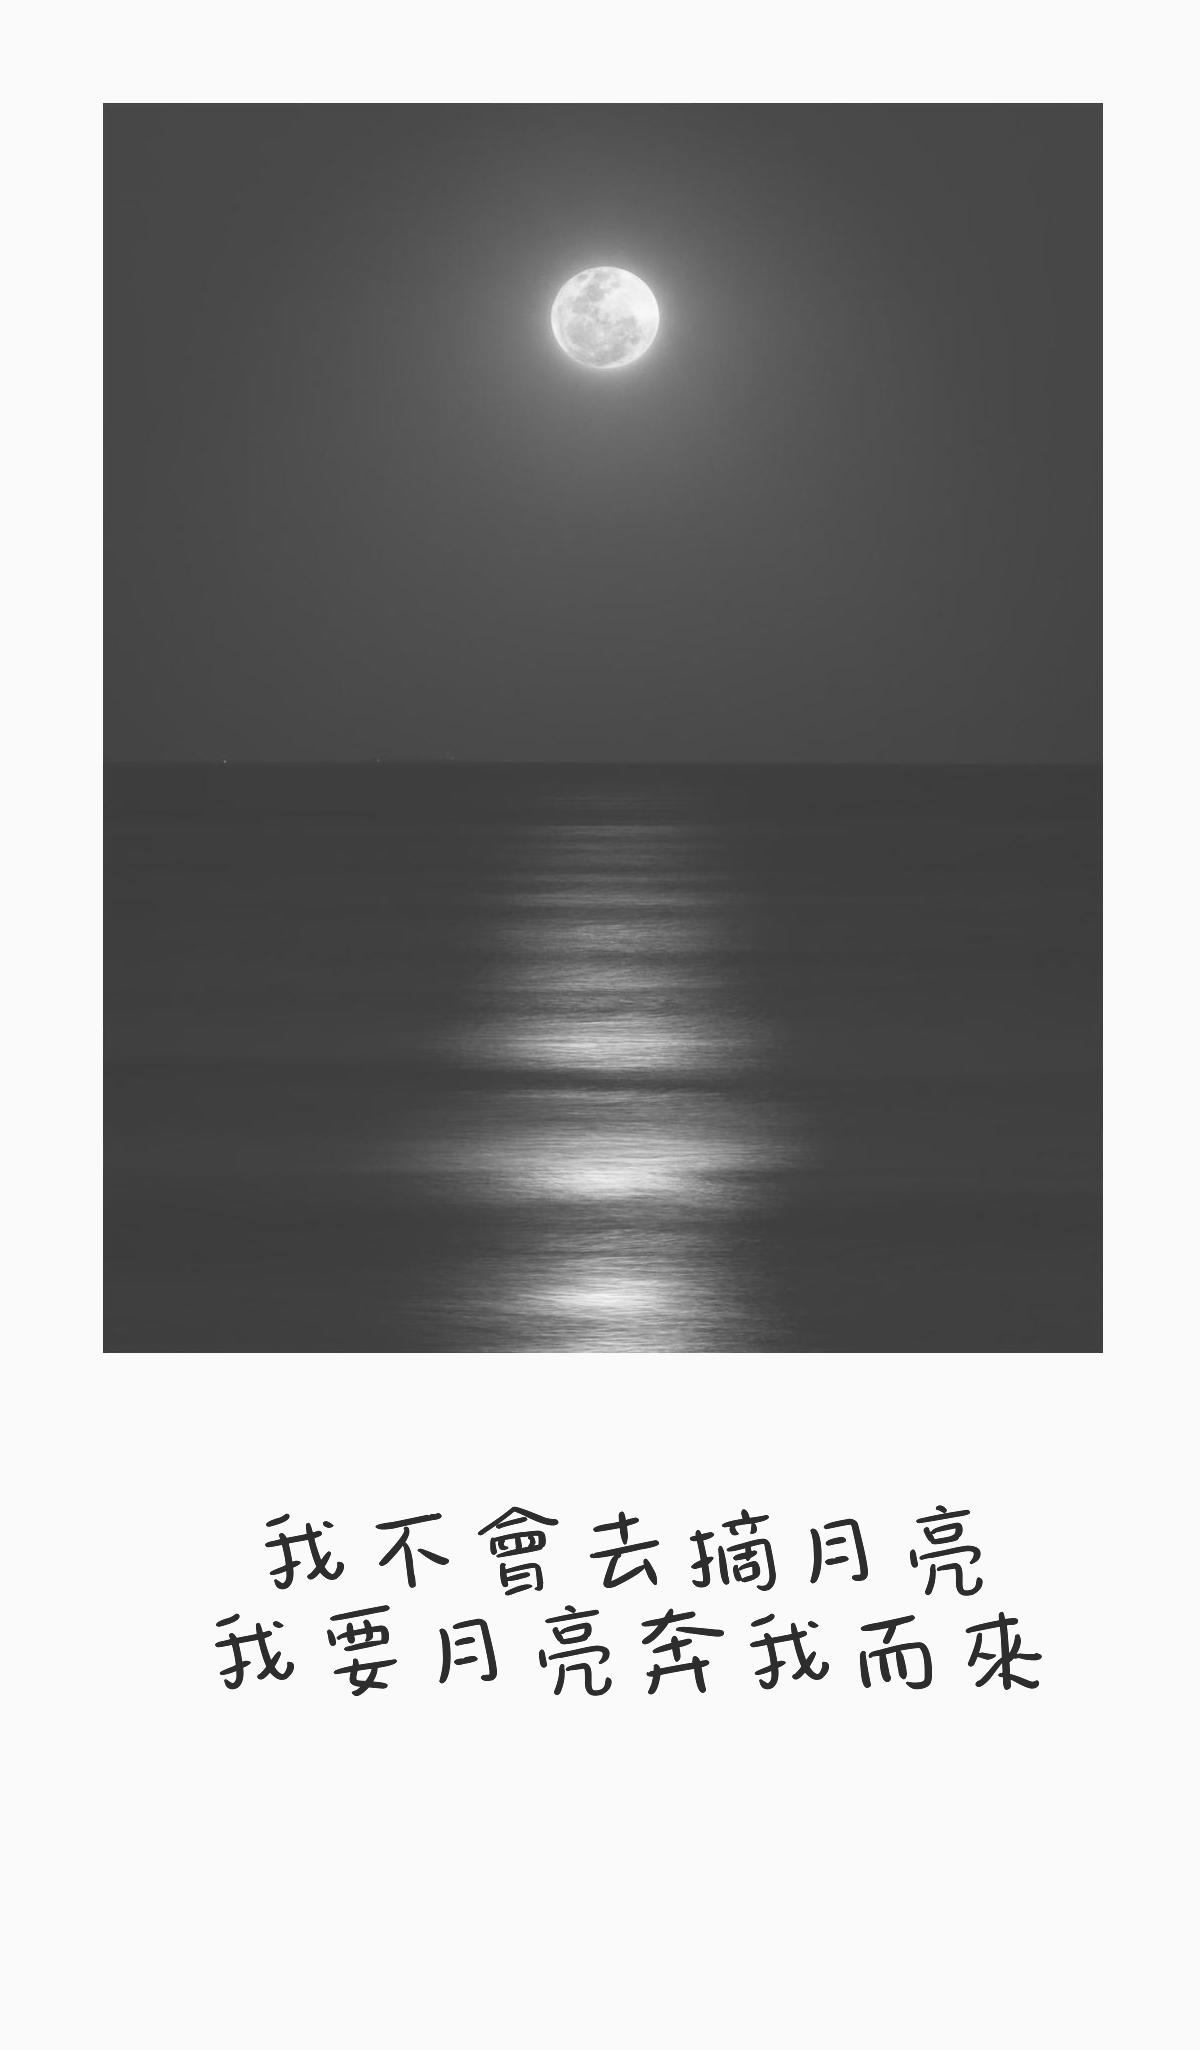
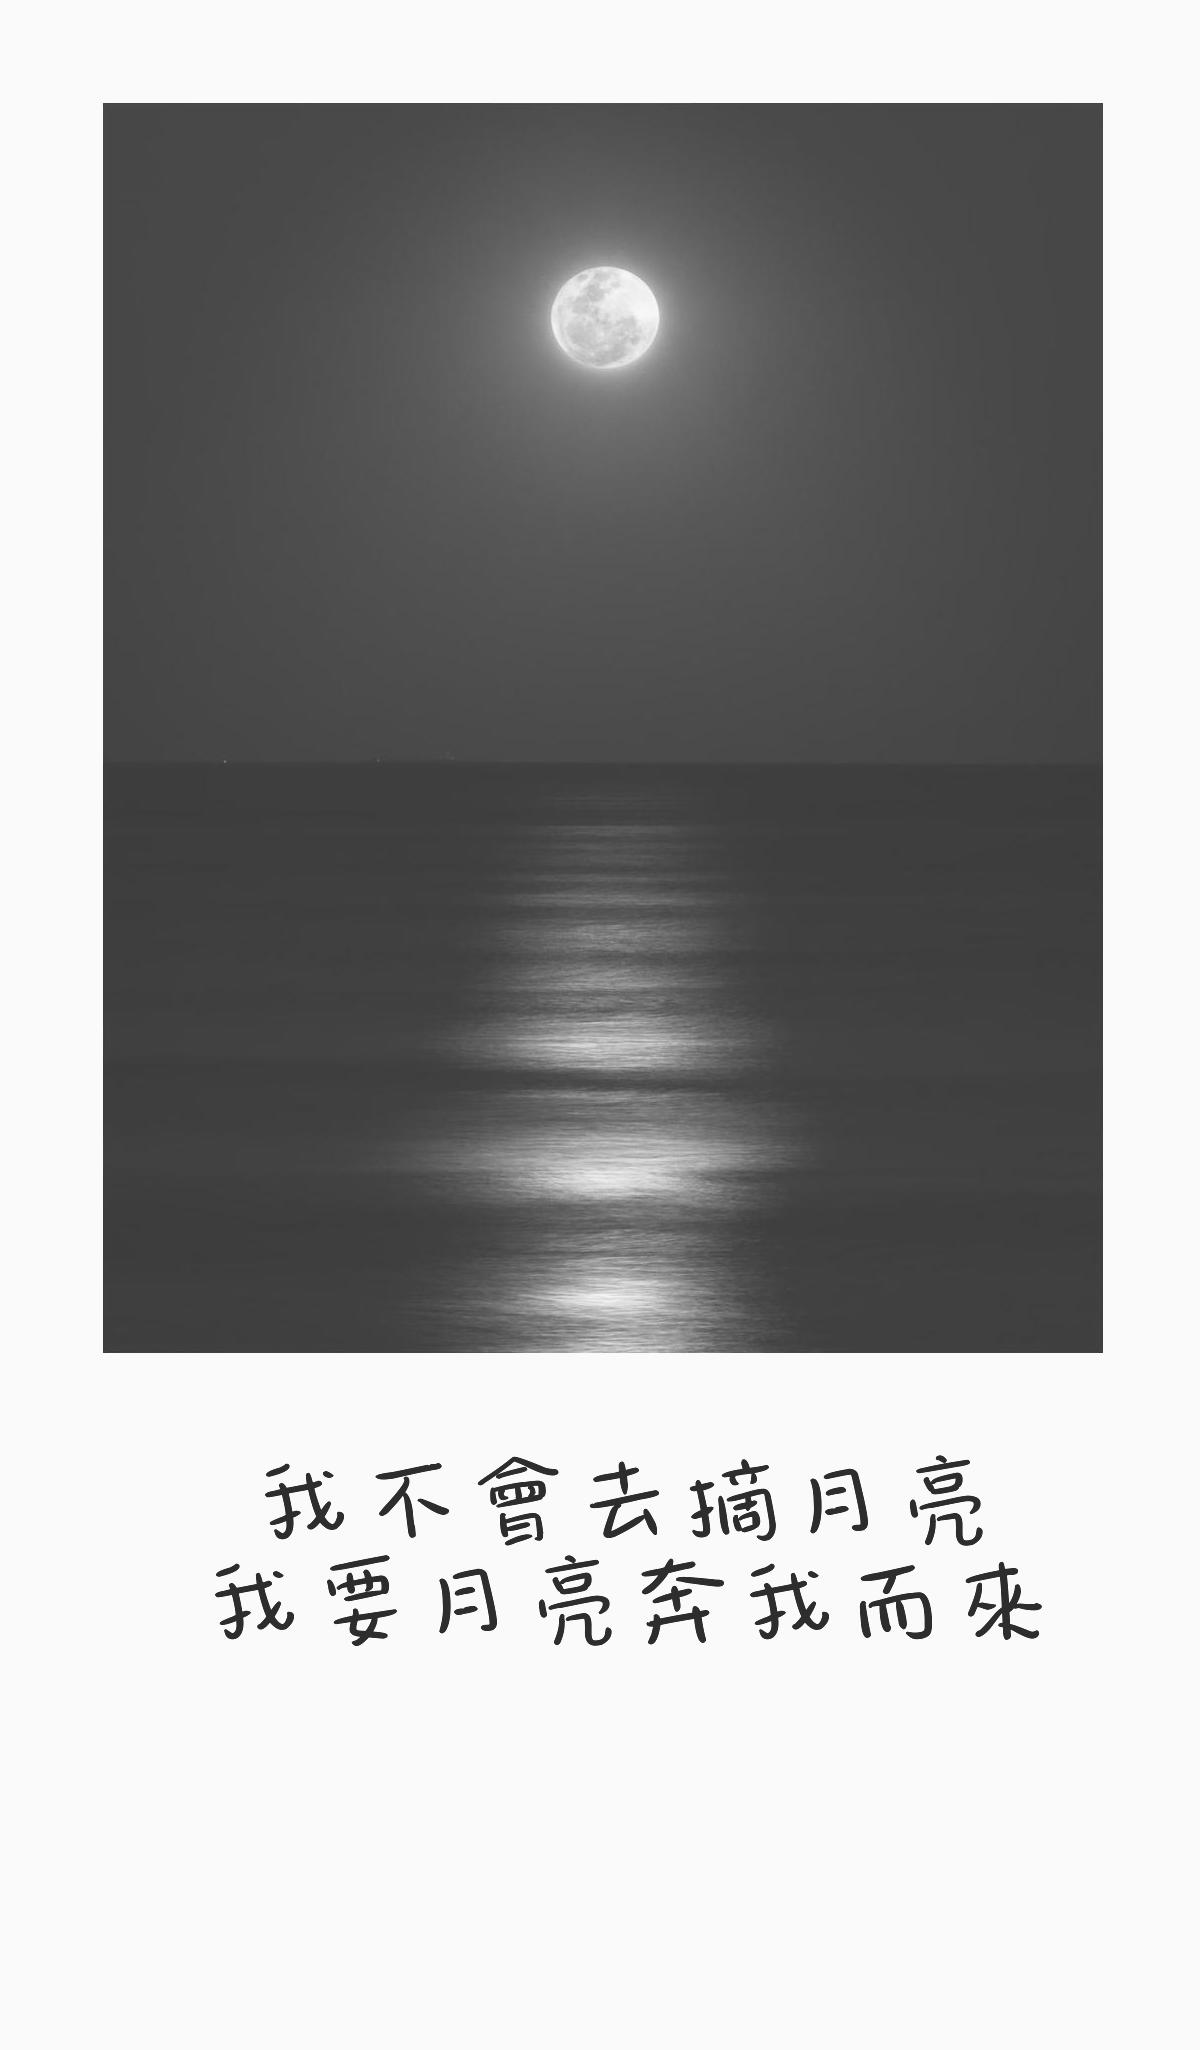
make code clear and shorter

Changed region(s): [[0.185, 0.6868, 0.8633, 0.8429]]

diff --git a/CODE/COMBINE.py b/CODE/COMBINE.py
@@ -1,9 +1,7 @@
 import tkinter as tk
-from PIL import Image, ImageTk
-
-from PIL import Image, ImageOps, ImageFont, ImageDraw 
+from tkinter.constants import W
+from PIL import Image, ImageOps, ImageFont, ImageDraw, Image, ImageTk, ImageFilter
 import math
-from PIL import ImageFilter
 
 def add_border1(file_name):
     image = Image.open(file_name)
@@ -18,18 +16,19 @@ def add_border2():
     new_pic.paste(img, (3, 3))
     return new_pic
 
-def add_text():
+def add_text(new_pic):
     title_font = ImageFont.truetype('../FONT/AA.ttf',100)
     title_text1="我不會去摘月亮"
     title_text2="我要月亮奔我而來"
     image_editable = ImageDraw.Draw(new_pic)
     [n,m]=new_pic.size
     x=(n-len(title_text1)*100)/2
-    y=b+50
+    y=b+200
     image_editable.text((x,y), title_text1, (0,0,0),title_font)
     x=(n-len(title_text2)*100)/2
     image_editable.text((x,y+100), title_text2, (0,0,0),title_font)
 
+# filter
 def softlightFilter(im):
     [im_width, im_height] = im.size
     pixels = im.load()
@@ -80,40 +79,64 @@ def edge(im):
     im=im.filter(ImageFilter.FIND_EDGES)
     im.save("../example_result/result5.jpg")
 
+def Pimage(new_pic):
+    ## add border
+    [a,b]=add_border1(file_name)
+    new_pic=add_border2()
+    ## add text
+    add_text(new_pic)
+    ## save original pic
+    new_pic.save('../example_result/result.jpg')
+    print("SUCCESS #1")
+    ## softlight
+    softlightFilter(new_pic)
+    print("SUCCESS #2")
+    ## gray scale
+    RGBtoGRAY(new_pic)
+    print("SUCCESS #3")
+    ## rmRED
+    rmRED(new_pic)
+    print("SUCCESS #4")
+    ## invert
+    inverted(new_pic)
+    print("SUCCESS #5")
+    ## edge detection
+    edge(new_pic)
+    print("SUCCESS #6")
+
+
 ## file name
 file_name="../image/42.jpg"
-## add border
-[a,b]=add_border1(file_name)
-new_pic=add_border2()
-## add text
-add_text()
-## save original pic
-new_pic.save('../example_result/result.jpg')
-print("SUCCESS #1")
-## softlight
-softlightFilter(new_pic)
-print("SUCCESS #2")
-## gray scale
-RGBtoGRAY(new_pic)
-print("SUCCESS #3")
-## rmRED
-rmRED(new_pic)
-print("SUCCESS #4")
-## invert
-inverted(new_pic)
-print("SUCCESS #5")
-## edge detection
-edge(new_pic)
-print("SUCCESS #6")
+new_pic=Image.open(file_name)
+[a,b]=new_pic.size
+Pimage(new_pic)
 
-#########################################################3
+#########################################################
 
 window = tk.Tk()
-window.title('Window')
+window.title('GUI')
 align_mode = 'nswe'
 pad = 5
 
-# FUCNTION
+# 分割空間
+div_size = 300
+img_size = div_size * 2
+div1 = tk.Frame(window,  width=img_size , height=img_size , bg='#ffcc66')
+div2 = tk.Frame(window,  width=div_size , height=div_size , bg='black')
+div3 = tk.Frame(window,  width=div_size , height=div_size , bg='#f5b2af')
+
+div1.grid(column=0, row=0, padx=pad, pady=pad, rowspan=2, sticky=align_mode)
+div2.grid(column=1, row=0, padx=pad, pady=pad, sticky=align_mode)
+div3.grid(column=1, row=1, padx=pad, pady=pad, sticky=align_mode)
+
+# TITLE
+
+lbl_title1 = tk.Label(div2, text='文青句濾鏡', font= ('Helvetica 15 bold italic'), bg='black', fg='white')
+lbl_title2 = tk.Label(div2, text="CHOOSE\nMODE", font= ('Helvetica 15 bold italic'), bg='black', fg='white')
+
+lbl_title1.grid(column=0, row=0, sticky=align_mode)
+lbl_title2.grid(column=0, row=2, sticky=align_mode)
+
 # 視窗縮放
 def define_layout(obj, cols=1, rows=1):
     def method(trg, col, row):
@@ -127,143 +150,32 @@ def define_layout(obj, cols=1, rows=1):
         trg = obj
         method(trg, cols, rows)
 
-def get_size(self, event, obj=''):
-
-    trg_obj = self.window if obj == '' else obj
-    self.w, self.h = trg_obj.winfo_width(), trg_obj.winfo_height()
-    print(f'\r{(self.w, self.h)}', end='')
-
-def toggle_fullScreen(self, event):
-    is_windows = lambda : 1 if platform.system() == 'Windows' else 0
-
-    self.isFullScreen = not self.isFullScreen
-    self.window.attributes("-fullscreen" if is_windows() else "-zoomed", self.isFullScreen)
-# 分割空間
-div_size = 200
-img_size = div_size * 2
-div1 = tk.Frame(window,  width=img_size , height=img_size , bg='#ffcc66')
-div2 = tk.Frame(window,  width=div_size , height=div_size-100 , bg='black')
-div3 = tk.Frame(window,  width=div_size , height=div_size+100 , bg='#f5b2af')
-
-window.update()
-win_size = min( window.winfo_width(), window.winfo_height())
-print(win_size)
-
-div1.grid(column=0, row=0, padx=pad, pady=pad, rowspan=2, sticky=align_mode)
-div2.grid(column=1, row=0, padx=pad, pady=pad, sticky=align_mode)
-div3.grid(column=1, row=1, padx=pad, pady=pad, sticky=align_mode)
-
-# 視窗縮放
-define_layout(window, cols=2, rows=2)
-define_layout([div1, div2, div3])
-
-# 照片
-im = Image.open('../image/42.jpg')
-[n,m]=im.size
-a = n / img_size
-b = m / img_size
-if a>b and a>1:
-    n /= a
-    m /= a
-elif b>a and b>1:
-    n /= b
-    m /= b 
-imTK = ImageTk.PhotoImage( im.resize( (int(n),int(m)) ) )
-
-image_main = tk.Label(div1, image=imTK)
-image_main['height'] = img_size
-image_main['width'] = img_size
-
-image_main.grid(column=0, row=0, sticky=align_mode)
-
-# TITLE
-
-lbl_title1 = tk.Label(div2, text='假文青濾鏡', bg='black', fg='white')
-lbl_title2 = tk.Label(div2, text="CHOOSE\nMODE", bg='black', fg='white')
-
-lbl_title1.grid(column=0, row=0, sticky=align_mode)
-lbl_title2.grid(column=0, row=1, sticky=align_mode)
-
 # BUTTON EVENT
-
 def bt1_event():
-    im = Image.open('../example_result/result2.jpg')
-    [n,m]=im.size
-    a = n / img_size
-    b = m / img_size
-    if a>b and a>1:
-        n /= a
-        m /= a
-    elif b>a and b>1:
-        n /= b
-        m /= b
-    imTK = ImageTk.PhotoImage( im.resize( (int(n),int(m)) ) )
-    image_main = tk.Label(div1, image=imTK)
-    image_main.configure(image=imTK) 
-    image_main.image = imTK  
-    image_main['height'] = img_size
-    image_main['width'] = img_size
-    image_main.grid(column=0, row=0, sticky=align_mode)
+    img_title = Image.open('../example_result/result2.jpg')
+    open_img(img_title)
 
 def bt2_event():
-    im = Image.open('../example_result/result1.jpg')
-    [n,m]=im.size
-    a = n / img_size
-    b = m / img_size
-    if a>b and a>1:
-        n /= a
-        m /= a
-    elif b>a and b>1:
-        n /= b
-        m /= b
-    imTK = ImageTk.PhotoImage( im.resize( (int(n),int(m)) ) )
-    image_main = tk.Label(div1, image=imTK)
-    image_main.configure(image=imTK) 
-    image_main.image = imTK  
-    image_main['height'] = img_size
-    image_main['width'] = img_size
-    image_main.grid(column=0, row=0, sticky=align_mode)
+    img_title = Image.open('../example_result/result1.jpg')
+    open_img(img_title)
 
 def bt3_event():
-    im = Image.open('../example_result/result3.jpg')
-    [n,m]=im.size
-    a = n / img_size
-    b = m / img_size
-    if a>b and a>1:
-        n /= a
-        m /= a
-    elif b>a and b>1:
-        n /= b
-        m /= b
-    imTK = ImageTk.PhotoImage( im.resize( (int(n),int(m)) ) )
-    image_main = tk.Label(div1, image=imTK)
-    image_main.configure(image=imTK) 
-    image_main.image = imTK  
-    image_main['height'] = img_size
-    image_main['width'] = img_size
-    image_main.grid(column=0, row=0, sticky=align_mode)
+    img_title = Image.open('../example_result/result3.jpg')
+    open_img(img_title)
 
 def bt4_event():
-    im = Image.open('../example_result/result4.jpg')
-    [n,m]=im.size
-    a = n / img_size
-    b = m / img_size
-    if a>b and a>1:
-        n /= a
-        m /= a
-    elif b>a and b>1:
-        n /= b
-        m /= b
-    imTK = ImageTk.PhotoImage( im.resize( (int(n),int(m)) ) )
-    image_main = tk.Label(div1, image=imTK)
-    image_main.configure(image=imTK) 
-    image_main.image = imTK  
-    image_main['height'] = img_size
-    image_main['width'] = img_size
-    image_main.grid(column=0, row=0, sticky=align_mode)
+    img_title = Image.open('../example_result/result4.jpg')
+    open_img(img_title)
 
 def bt5_event():
-    im = Image.open('../example_result/result5.jpg')
+    img_title = Image.open('../example_result/result5.jpg')
+    open_img(img_title)
+
+def bt6_event():
+    img_title = Image.open('../example_result/result.jpg')
+    open_img(img_title)
+
+def open_img(im):
     [n,m]=im.size
     a = n / img_size
     b = m / img_size
@@ -281,31 +193,13 @@ def bt5_event():
     image_main['width'] = img_size
     image_main.grid(column=0, row=0, sticky=align_mode)
 
-def bt6_event():
-    im = Image.open('../example_result/result.jpg')
-    [n,m]=im.size
-    a = n / img_size
-    b = m / img_size
-    if a>b and a>1:
-        n /= a
-        m /= a
-    elif b>a and b>1:
-        n /= b
-        m /= b
-    imTK = ImageTk.PhotoImage( im.resize( (int(n),int(m)) ) )
-    image_main = tk.Label(div1, image=imTK)
-    image_main.configure(image=imTK) 
-    image_main.image = imTK  
-    image_main['height'] = img_size
-    image_main['width'] = img_size
-    image_main.grid(column=0, row=0, sticky=align_mode)
 # BUTTON
-bt1 = tk.Button(div3, text='# 舊時光 #', bg='#ffcc66', fg='white')
-bt2 = tk.Button(div3, text='# 睡醒的午後 #', bg='#25dae9', fg='white')
-bt3 = tk.Button(div3, text='# 褪去的愛 #', bg='#f86263', fg='white')
-bt4 = tk.Button(div3, text='# 馬鹿 #', bg='#ffa157', fg='white')
-bt5 = tk.Button(div3, text='# 鍊鋸人 #', bg='#f5b2af', fg='white')
-bt6 = tk.Button(div3, text='# 一般 #', bg='#f56254', fg='white')
+bt1 = tk.Button(div3, text='# 舊時光 #', font= ('Helvetica 15 bold italic'), bg='#ffcc66', fg='white')
+bt2 = tk.Button(div3, text='# 睡醒的午後 #', font= ('Helvetica 15 bold italic'), bg='#25dae9', fg='white')
+bt3 = tk.Button(div3, text='# 褪去的愛 #', font= ('Helvetica 15 bold italic'), bg='#f86263', fg='white')
+bt4 = tk.Button(div3, text='# 馬鹿 #', font= ('Helvetica 15 bold italic'), bg='#ffa157', fg='white')
+bt5 = tk.Button(div3, text='# 鍊鋸人 #', font= ('Helvetica 15 bold italic'), bg='#f5b2af', fg='white')
+bt6 = tk.Button(div3, text='# 一般 #', font= ('Helvetica 15 bold italic'), bg='#f56254', fg='white')
 
 bt1.grid(column=0, row=0, sticky=align_mode)
 bt2.grid(column=0, row=1, sticky=align_mode)
@@ -313,6 +207,7 @@ bt3.grid(column=0, row=2, sticky=align_mode)
 bt4.grid(column=0, row=3, sticky=align_mode)
 bt5.grid(column=0, row=4, sticky=align_mode)
 bt6.grid(column=0, row=5, sticky=align_mode)
+
 bt1['command'] = bt1_event
 bt2['command'] = bt2_event
 bt3['command'] = bt3_event
@@ -320,10 +215,13 @@ bt4['command'] = bt4_event
 bt5['command'] = bt5_event
 bt6['command'] = bt6_event
 
-
+#origin img
+im = Image.open(file_name)
+open_img(im)
 
 define_layout(window, cols=2, rows=2)
 define_layout(div1)
-define_layout(div2, rows=2)
-define_layout(div3, rows=4)
+define_layout(div2, rows=3)
+define_layout(div3, rows=6)
+
 window.mainloop()
